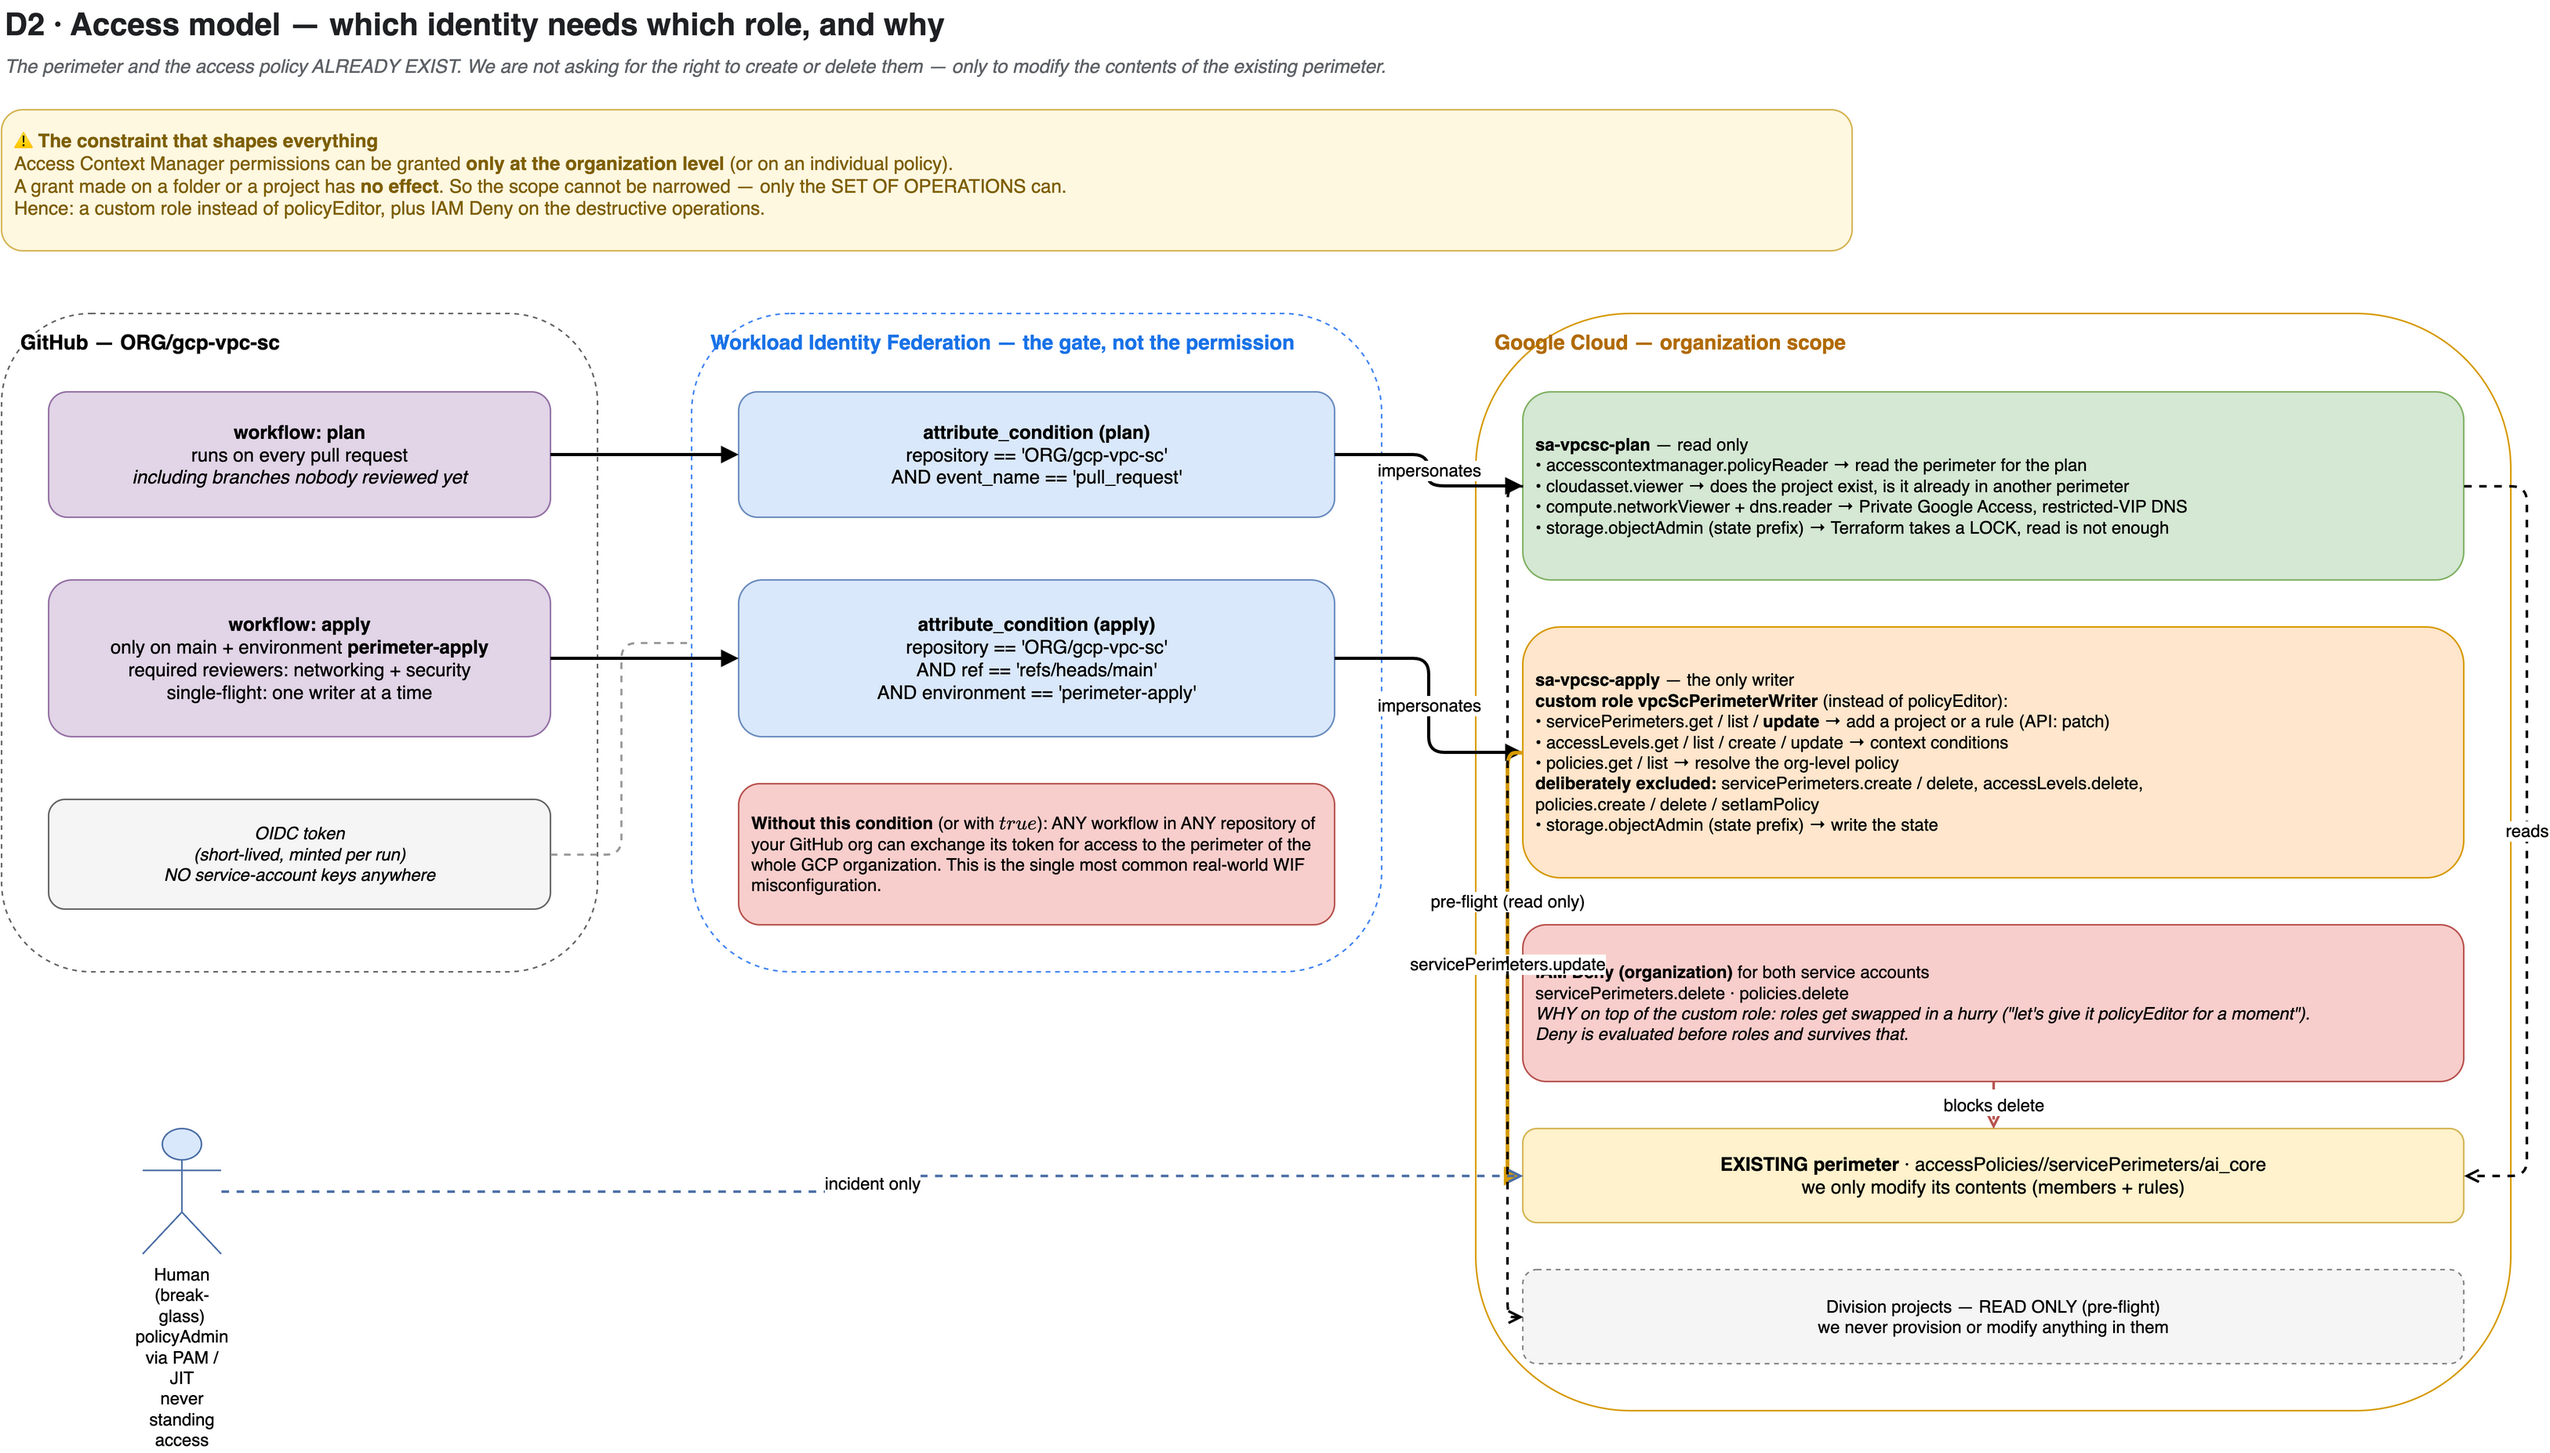
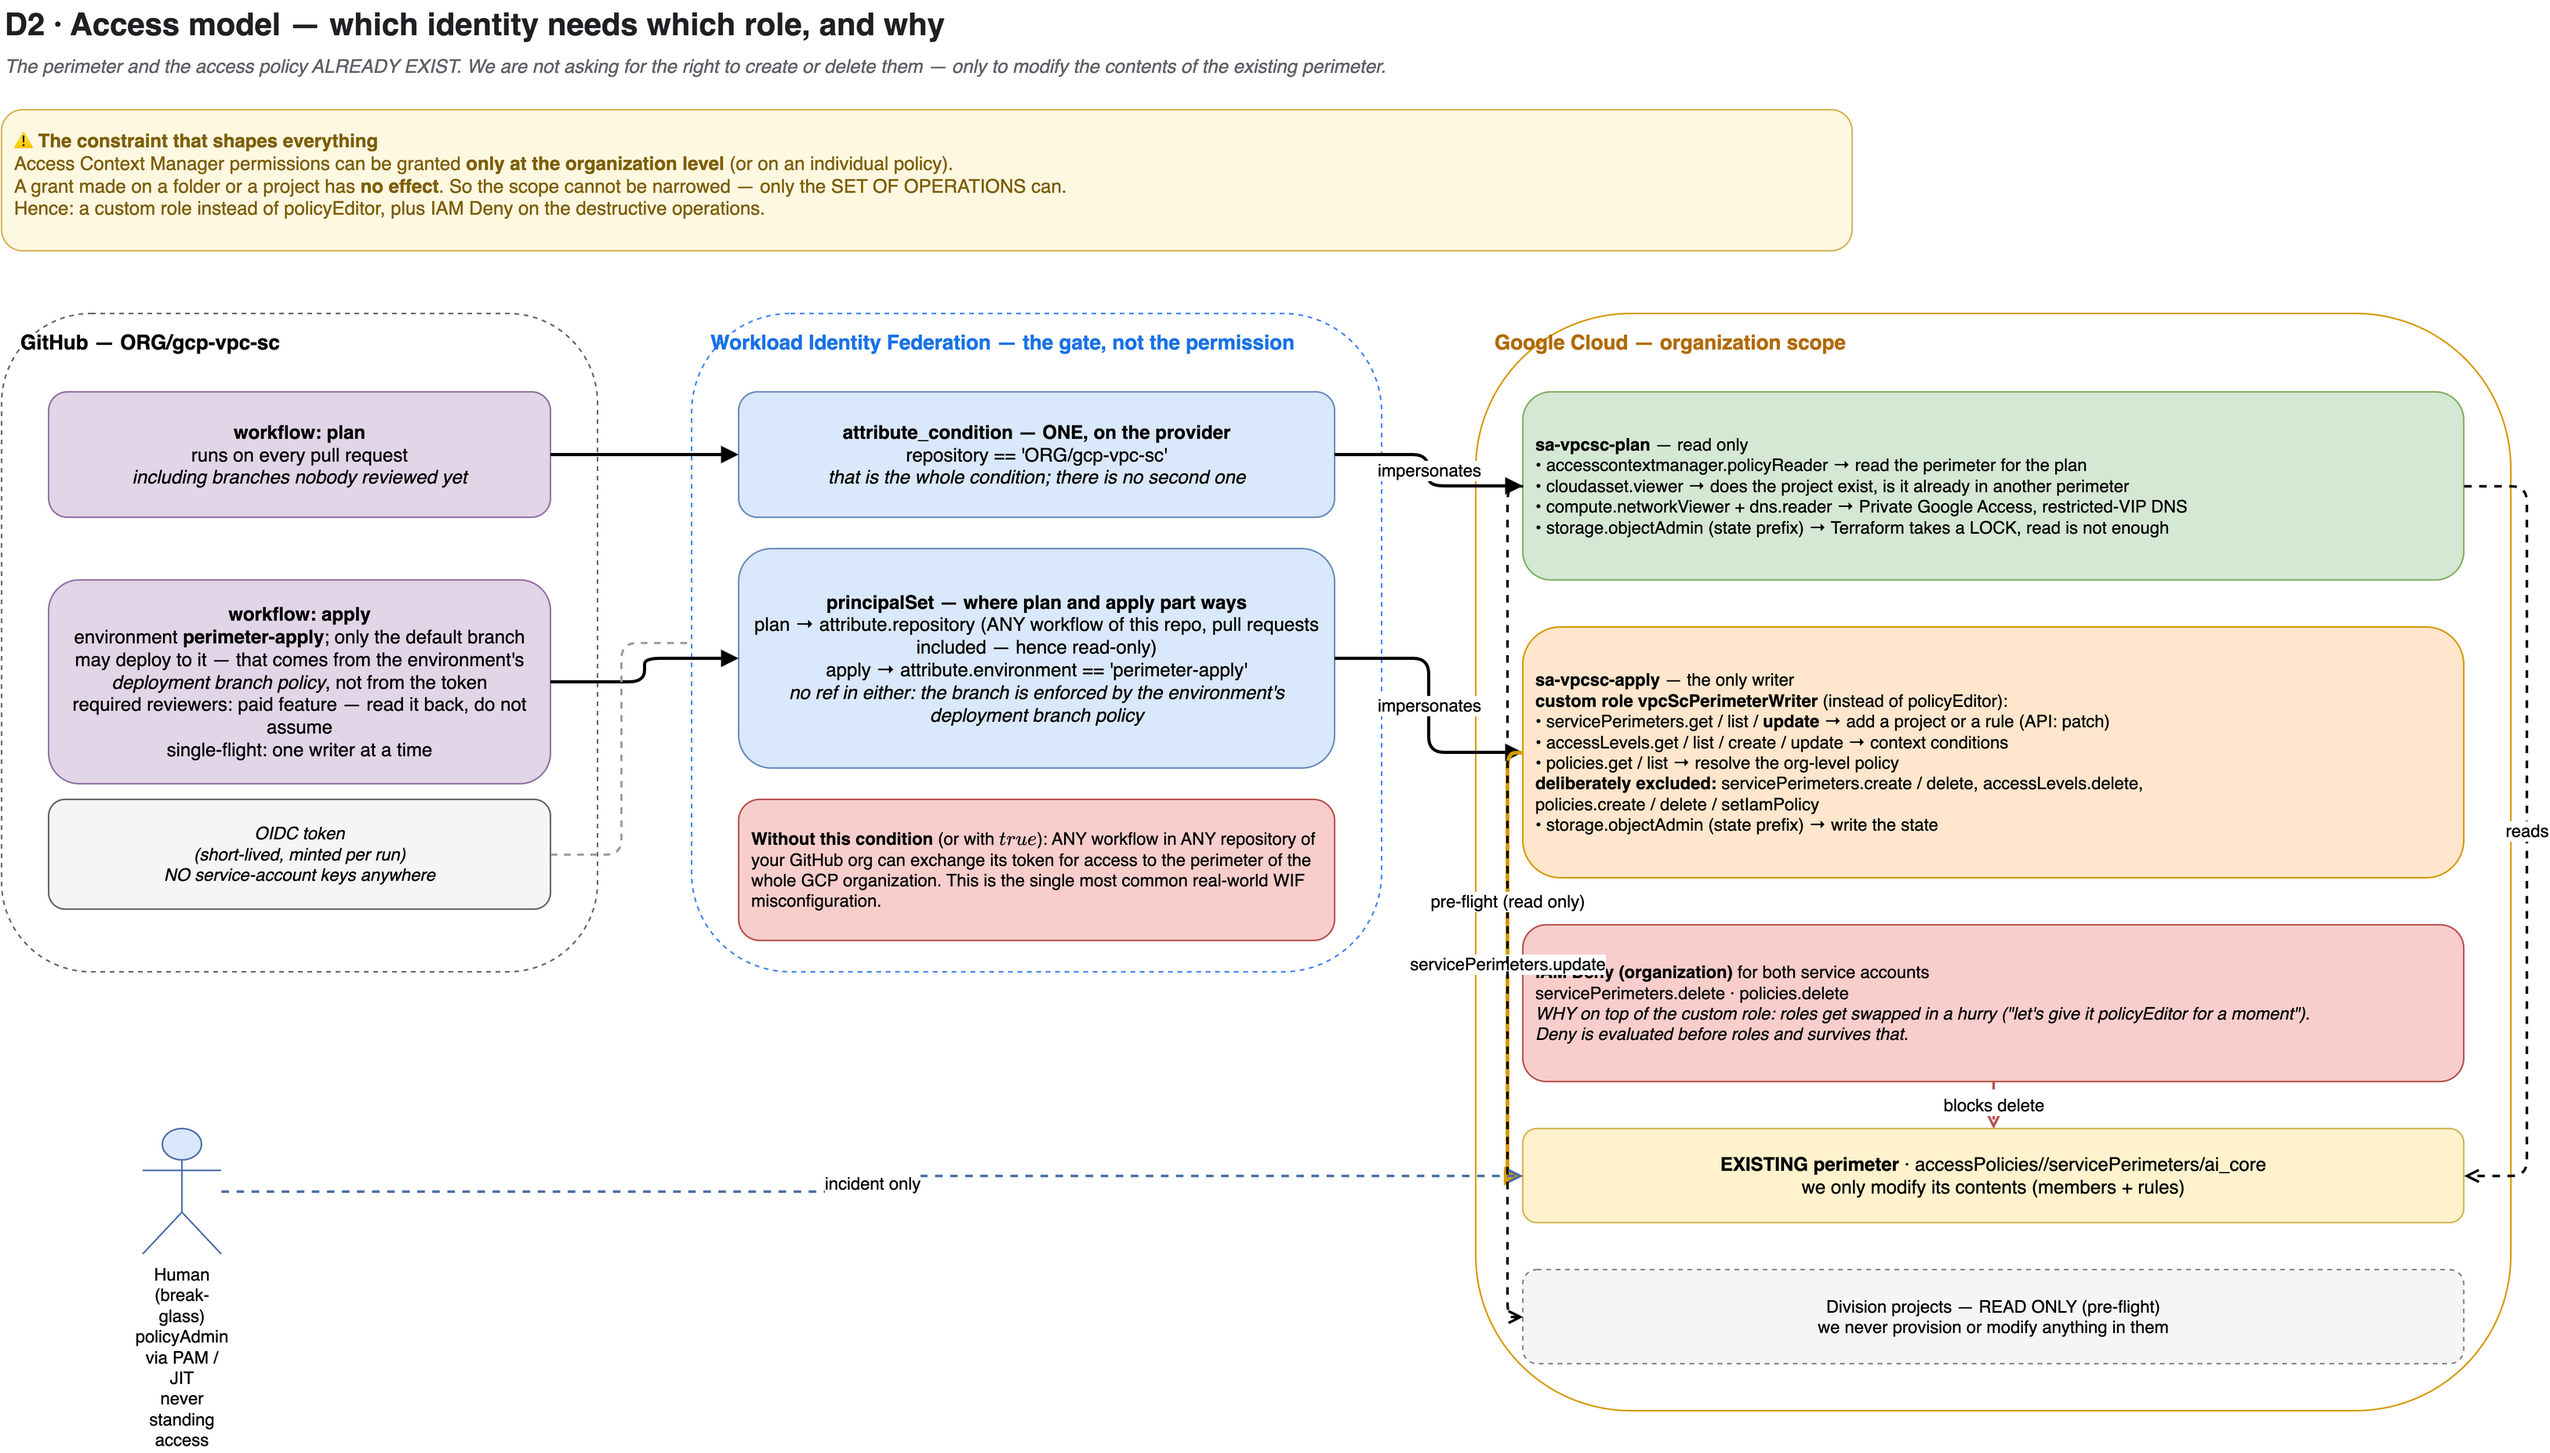
fix(docs): tabela i diagram nadal twierdzily, ze warunek WIF pinuje galaz
CO BYLO NIE TAK. Poprzednia poprawka (bramka apply opisuje stan faktyczny) sprostowala komentarze
w apply.yml, iam-bootstrap i prozie docs/2 §5.1, ale zostawila DWA miejsca mowiace co innego:

  * docs/2 §5, tabela "Dwa osobne warunki wejscia" — przypisywala providerowi WIF dwa rozne
    attribute_condition, w tym `assertion.ref == 'refs/heads/main'` dla apply i
    `assertion.event_name == 'pull_request'` dla planu;
  * docs/2 §6 (tresc requestu do administratora org) — ten sam opis w formie do wklejenia w ticket;
  * D2-iam-and-wif — kafelek "attribute_condition (apply)" z tym samym warunkiem.

W kodzie jest JEDEN provider z JEDNYM warunkiem `assertion.repository == '<repo>'`, a rozdzial
plan/apply przebiega na wiazaniach `principalSet` konta serwisowego: plan po `attribute.repository`,
apply po `attribute.environment`. O gallezi nie ma tam ani slowa.

DLACZEGO TO NIE JEST KOSMETYKA. Czytelnik, ktory wierzy tabeli, uznaje "z galezi roboczej nie da sie
ruszyc perimetru" za wlasnosc tokenu. Jest nia wylacznie polityka galezi environment po stronie
GitHuba — ustawienie, ktore mozna wylaczyc jednym kliknieciem i ktorego zaden plik w tym repo nie
egzekwuje. Dokument opisujacy nieistniejaca bramke usypia dokladnie te kontrole, ktora trzeba
sprawdzic recznie. Tresc §6 idzie dodatkowo do administratora organizacji jako opis tego, o co
prosimy — falszywy warunek w requescie to falszywa deklaracja wobec strony trzeciej.
[…]

Changed region(s): [[0.2795, 0.3689, 0.528, 0.6456], [0.0, 0.3997, 0.2174, 0.5534], [0.3416, 0.2767, 0.4969, 0.3382]]

diff --git a/docs/2-uprawnienia-i-wif.md b/docs/2-uprawnienia-i-wif.md
@@ -319,12 +319,14 @@ mapowanie atrybutów:
   attribute.environment = assertion.environment
 ```
 
-Dwa osobne warunki wejścia — to jest **najważniejszy guardrail całej konstrukcji**:
+**Jeden warunek na providerze, granica plan/apply na wiązaniach `principalSet`** — i to rozróżnienie jest
+ważniejsze, niż wygląda. Tabela opisująca „dwa warunki wejścia" wymieniała ograniczenia, których w kodzie
+nie ma (`event_name`, `ref`), więc czytelnik brał za bramkę coś, czego nikt nie egzekwuje. Stan faktyczny:
 
-| Ścieżka | `attribute_condition` | Impersonuje |
+| Ścieżka | Co realnie odcina dostęp do konta | Impersonuje |
 |---|---|---|
-| plan (PR) | `assertion.repository == 'ORG/gcp-vpc-sc' && assertion.event_name == 'pull_request'` | `sa-vpcsc-plan` |
-| apply | `assertion.repository == 'ORG/gcp-vpc-sc' && assertion.ref == 'refs/heads/main' && assertion.environment == 'perimeter-apply'` | `sa-vpcsc-apply` |
+| plan (PR) | `attribute_condition` providera: `assertion.repository == 'ORG/gcp-vpc-sc'`, plus `principalSet` po `attribute.repository`. To jest **każdy** workflow z tego repozytorium, także z pull requesta — i dlatego to konto jest read-only. | `sa-vpcsc-plan` |
+| apply | ten sam `attribute_condition`, plus `principalSet` po `attribute.environment/perimeter-apply`. **Gałęzi w tym warunku NIE MA** — ref odcina dopiero polityka gałęzi environment (§5.1). | `sa-vpcsc-apply` |
 
 **Bez `attribute_condition` (albo z warunkiem `true`):** dowolny workflow w **dowolnym repozytorium waszej
 organizacji GitHub** może wymienić swój token OIDC na dostęp do perimetru całej organizacji GCP. To nie jest
@@ -412,8 +414,9 @@ Prosimy o (środowisko: <org GCP>, repozytorium: ORG/gcp-vpc-sc):
    accesscontextmanager.servicePerimeters.delete, accesscontextmanager.policies.delete
 
 4. Workload Identity Pool `github-actions` + provider OIDC GitHub z attribute_condition
-   ograniczającym do repozytorium ORG/gcp-vpc-sc (plan: event_name==pull_request;
-   apply: ref==refs/heads/main && environment==perimeter-apply)
+   ograniczającym do repozytorium ORG/gcp-vpc-sc; rozdział plan/apply na wiązaniach principalSet
+   (plan: attribute.repository; apply: attribute.environment==perimeter-apply — BEZ warunku o gałęzi,
+   ten daje polityka gałęzi environment po stronie GitHuba)
 
 5. Bucket stanu Terraform: versioning + soft-delete, BEZ retention-lock
    (WORM na aktywnie nadpisywanym stanie łamie backend).
